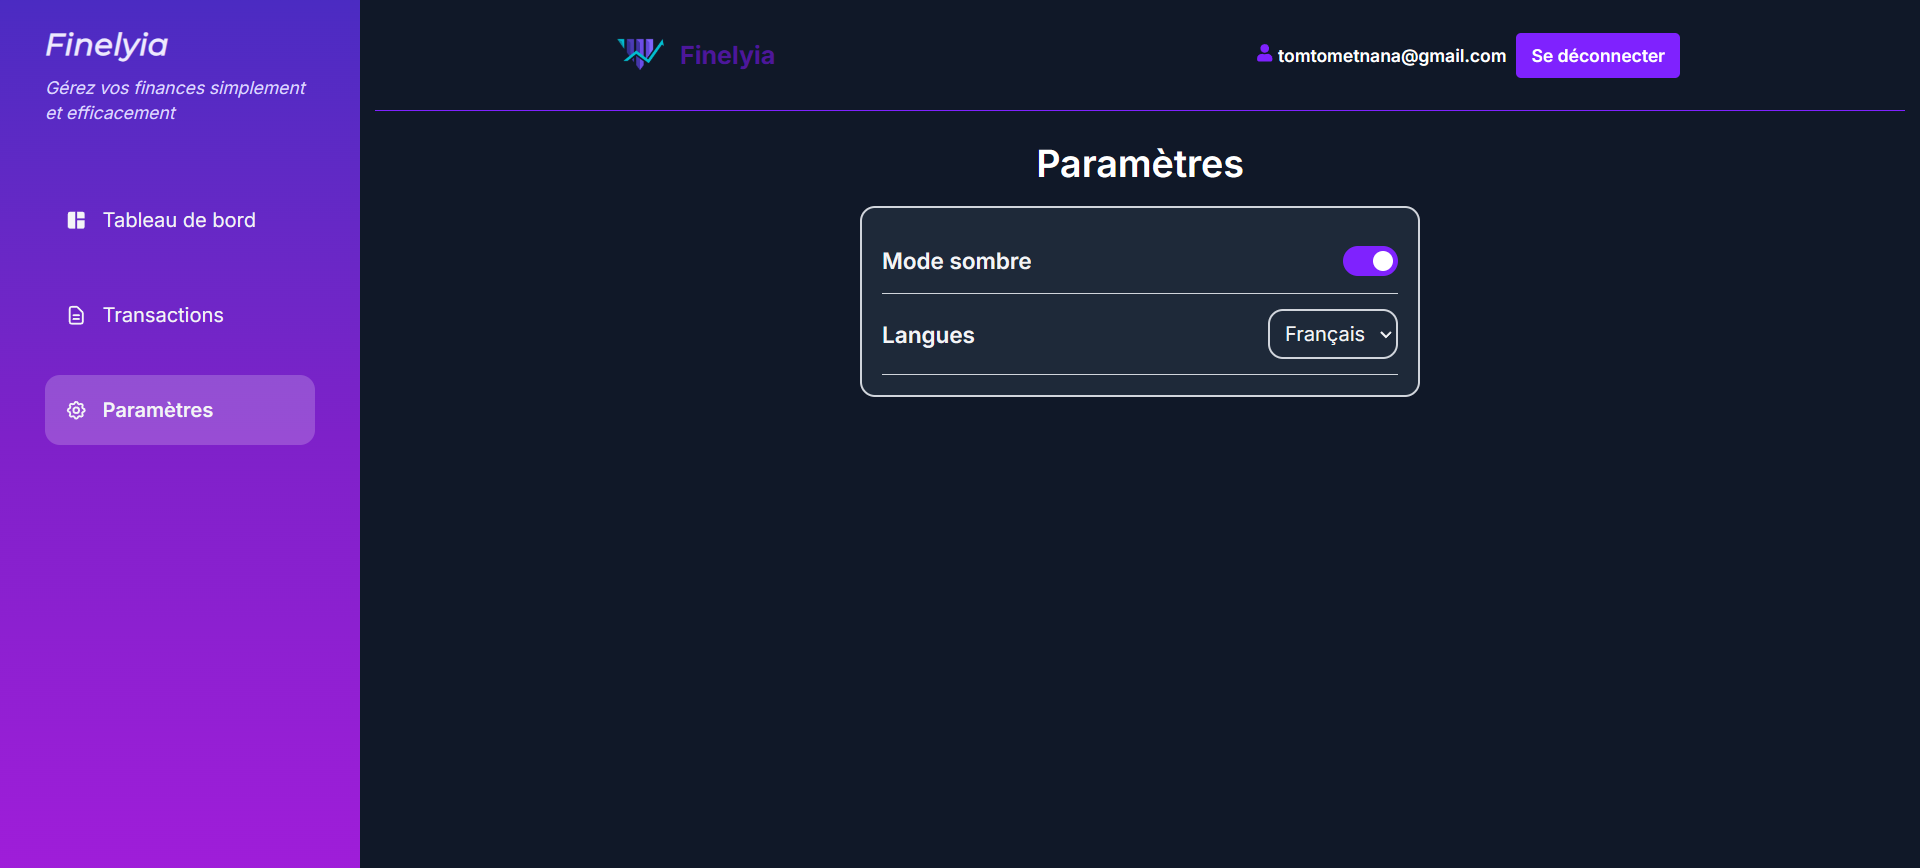
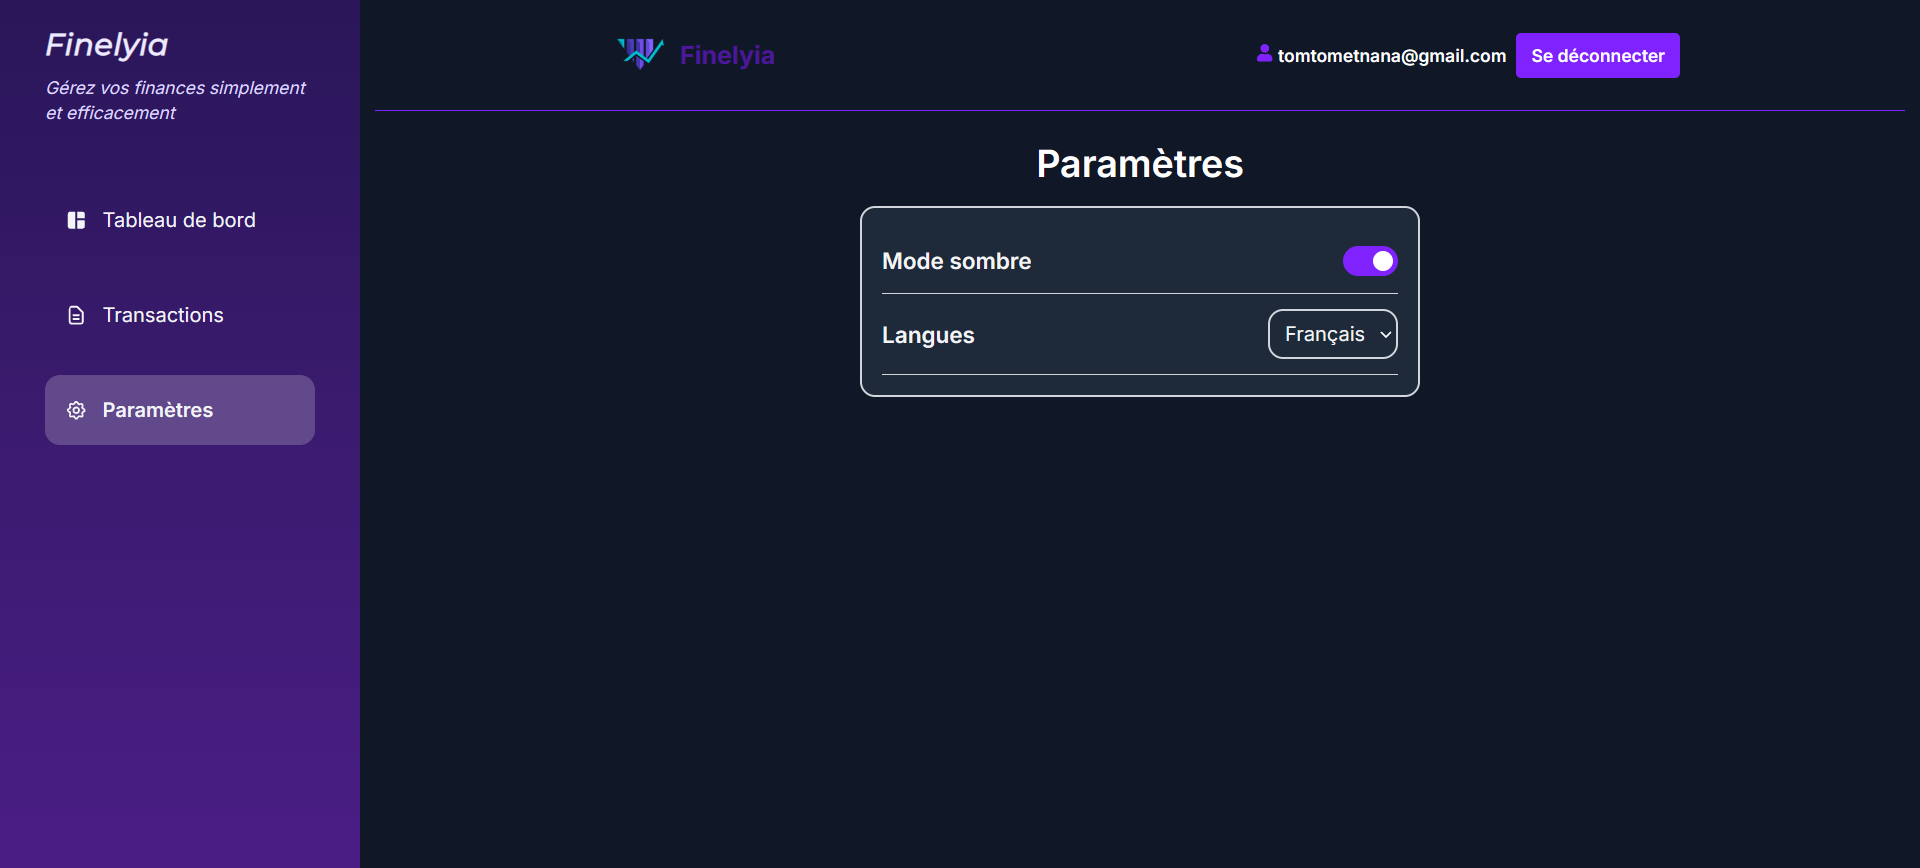
chore: update browserslist data and refine homepage project descriptions

Changed region(s): [[0.0, 0.0, 0.1875, 1.0]]

diff --git a/src/components/Projects.jsx b/src/components/Projects.jsx
@@ -7,13 +7,13 @@ import "swiper/css/effect-cube";
 import "swiper/css/pagination";
 
 import homepage from "../assets/popcornmovie/home_popcornmovie.png";
-import lifestyle from "../images/lifestyle.png";
+import homePageFinelyia from "../assets/finelyia/Finelyia.png";
 import laCasaDiToma from "../assets/la_casa_di_toma/homepage.png";
 import { LuPopcorn } from "react-icons/lu";
 import { CiPizza } from "react-icons/ci";
-import { MdFitnessCenter } from "react-icons/md";
 import { PiWatch } from "react-icons/pi";
 import timeElegance from "../assets/timeelegance/timeElegance_fullscreen.png";
+import { FaRegChartBar } from "react-icons/fa";
 
 import { EffectCube, Pagination } from "swiper/modules";
 
@@ -117,27 +117,27 @@ export default function Projects() {
               <div className="py-4 mb-6 rounded-xl border border-white/10 bg-white/5 backdrop-blur-sm p-4 hover:bg-white/10 hover:border-white/20 transition-all duration-300">
                 <div className="flex items-baseline space-x-3 mb-2">
                   <h2 className="text-xl sm:text-2xl font-semibold mb-2 text-white">
-                    LifeStyle Fitness
+                    Finelyia
                   </h2>
                   <span className="text-indigo-400 text-lg sm:text-xl">
-                    <MdFitnessCenter />
+                    <FaRegChartBar />
                     <span className="absolute top-3 right-2 z-10 rounded-full border border-indigo-400/60 bg-indigo-500/10 px-2 py-1 text-xs font-medium text-indigo-300 backdrop-blur-sm">
-                      Projet professionnel
+                      Projet en cours
                     </span>
                   </span>
                 </div>
                 <p className="mb-4 text-gray-100 text-base">
                   <span className="italic font-light text-blue-600 ">
-                    LifeStyle fitness :
+                    Finelyia :
                   </span>{" "}
-                  LifeStyle Fitness : Projet réalisé dans le cadre de mon stage
-                  pour une chaîne de salles de sport. À partir d’une maquette
-                  Figma, j’ai développé une page web responsive avec Next.js et
-                  Tailwind CSS, en veillant à respecter le design et à intégrer
-                  un formulaire permettant aux utilisateurs d’obtenir un pass
-                  gratuit.
+                  Application web de gestion des finances personnelles
+                  développée avec React et Firebase. Le projet intègre un
+                  système d’authentification, le suivi des dépenses et des
+                  revenus, ainsi qu’un tableau de bord avec graphiques pour
+                  visualiser la situation financière de l’utilisateur.
                 </p>
               </div>
+
               <div className="py-4 mb-6 rounded-xl border border-white/10 bg-white/5 backdrop-blur-sm p-4 hover:bg-white/10 hover:border-white/20 transition-all duration-300">
                 <div className="flex items-baseline space-x-3 mb-2">
                   <h2 className="text-xl sm:text-2xl font-semibold mb-2 text-white">
@@ -211,10 +211,10 @@ export default function Projects() {
                   <SwiperSlide className="flex justify-center items-center w-full h-full">
                     <div className="w-full h-full flex justify-center items-center">
                       <img
-                        src={lifestyle}
+                        src={homePageFinelyia}
                         alt="Lifestyle"
                         className="w-full h-full object-cover object-top cursor-pointer"
-                        onClick={() => openModal(lifestyle)}
+                        onClick={() => openModal(homePageFinelyia)}
                       />
                     </div>
                   </SwiperSlide>

diff --git a/src/data/projectData.js b/src/data/projectData.js
@@ -28,7 +28,8 @@ import recommandation from "../assets/la_casa_di_toma/recommandation.png";
 import panier from "../assets/la_casa_di_toma/panier.png";
 import contactFooter from "../assets/la_casa_di_toma/contactfooter.png";
 import notificationPush from "../assets/la_casa_di_toma/notification_push.png";
-import homepageFinelyia from "../assets/finelyia/homepage.png";
+// import homepageFinelyia from "../assets/finelyia/homepage.png";
+import homepageFinelyia from "../assets/finelyia/Finelyia.png";
 import transactionsFinelyia from "../assets/finelyia/transactions.png";
 import settingsFinelyia from "../assets/finelyia/settings.png";
 import homePageTimeElegance from "../assets/timeelegance/homePage_MainImage.png";
@@ -194,16 +195,16 @@ const projects = [
     // demoLink: "https://timeelegance.local",
   },
   {
-  id: 8,
-  title: "Craftify",
-  inProgress: false,
-  description:
-    "Craftify est un projet réalisé en équipe dans le cadre de ma formation chez BeCode. Il s’agit d’un site e-commerce développé avec React et Vite, intégrant des fonctionnalités comme la gestion du panier, les filtres de produits et une navigation fluide. Le projet n’est actuellement plus en ligne suite à l’arrêt de l’hébergement backend, mais un portfolio détaillé reste disponible pour présenter le travail réalisé.",
-  image: craftifyHome,
-  imageList: [craftifyHome],
-  technologies: ["React", "Vite", "Tailwind", "Team Project"],
-  demoLink: "https://craftify-project.myportfolio.com/",
-}
+    id: 8,
+    title: "Craftify",
+    inProgress: false,
+    description:
+      "Craftify est un projet réalisé en équipe dans le cadre de ma formation chez BeCode. Il s’agit d’un site e-commerce développé avec React et Vite, intégrant des fonctionnalités comme la gestion du panier, les filtres de produits et une navigation fluide. Le projet n’est actuellement plus en ligne suite à l’arrêt de l’hébergement backend, mais un portfolio détaillé reste disponible pour présenter le travail réalisé.",
+    image: craftifyHome,
+    imageList: [craftifyHome],
+    technologies: ["React", "Vite", "Tailwind", "Team Project"],
+    demoLink: "https://craftify-project.myportfolio.com/",
+  },
   //   {
   //     id: 7,
   //     title: "Daily Dashboard",
